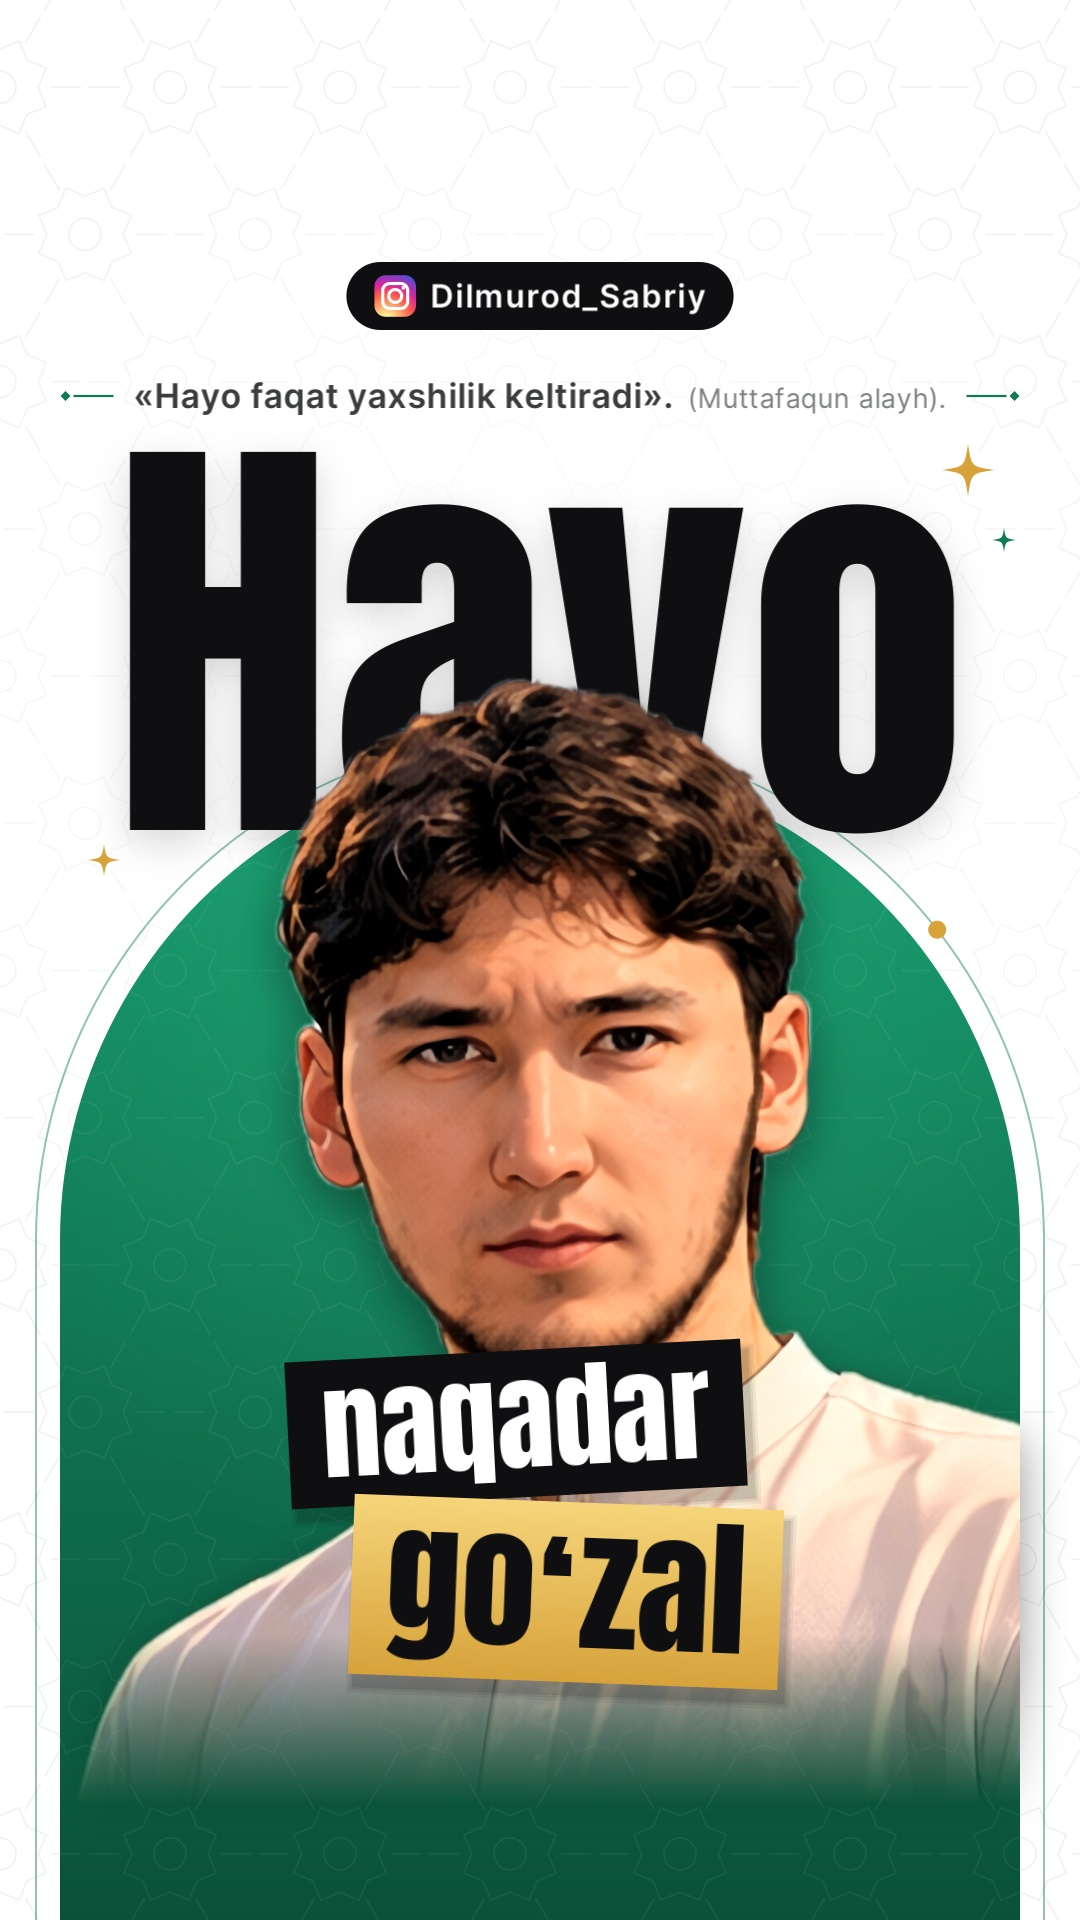
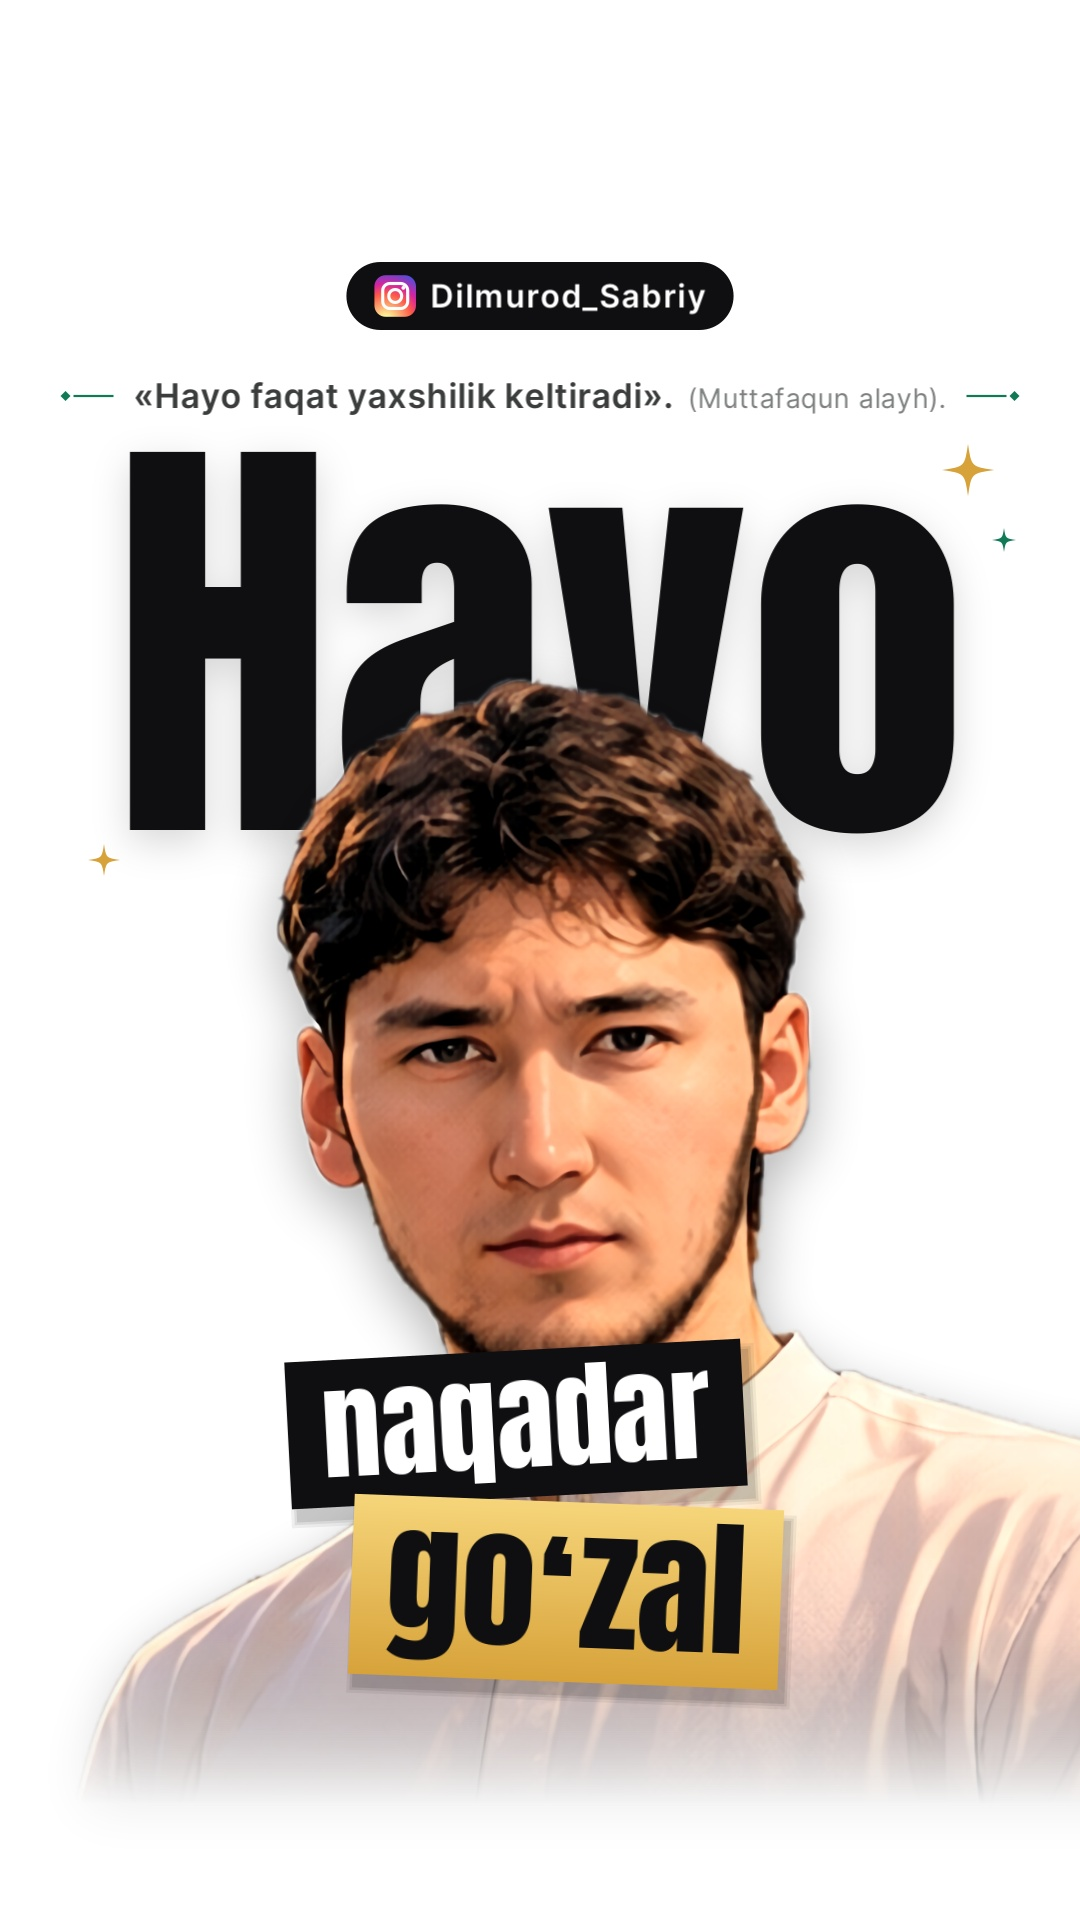
Cover: fon faqat sof oq (ravoq va naqsh olib tashlandi)
Claude-Session: https://claude.ai/code/session_018LrpBgy8Hvn4QmYzaXwYNb

Changed region(s): [[0.0306, 0.4375, 1.0, 1.0], [0.7028, 0.4062, 0.7333, 0.4375]]

diff --git a/projects/hayo_cover.py b/projects/hayo_cover.py
@@ -3,8 +3,8 @@
 
     python3 projects/hayo_cover.py            # -> output/hayo_naqadar_gozal_cover.png/.jpg
 
-Uslub (zamonaviy poster): oq fon + juda nozik naqsh; zumrad ravoq-shakl (yuqorisi
-yarim doira) ichida odam kesmasi, boshi ravoqdan chiqib turadi; ulkan qora "Hayo"
+Uslub (zamonaviy poster): fon faqat sof oq (#ffffff); odam kesmasi yumshoq soya bilan
+ajralib turadi, pastga qarab oqqa singib ketadi; ulkan qora "Hayo"
 (Anton) boshi ORTIDA; tepada Instagram tugmasi va hadis kicker; pastda ikki qiya yorliq
 ("naqadar" qora, "goʻzal" oltin). Muhim qismlar markaziy 3:4 kesim (y 240..1680) ichida.
 """
@@ -122,41 +122,7 @@ def main():
     ctx = cairo.Context(surf)
     ctx.set_source_rgba(1, 1, 1, 1)
     ctx.paint()
-    # very faint geometric lattice on the white
-    lat = P.lattice_surface(color=hx("#dfe7e3"), step=170, R_=50)
-    ctx.set_source_surface(lat, -85, -60)
-    ctx.paint_with_alpha(0.55)
-    # fade the lattice out towards the centre so the type stays clean
-    g = cairo.RadialGradient(540, 760, 120, 540, 760, 760)
-    g.add_color_stop_rgba(0, 1, 1, 1, 0.92)
-    g.add_color_stop_rgba(1, 1, 1, 1, 0.0)
-    ctx.set_source(g)
-    ctx.paint()
-
-    # emerald arch ----------------------------------------------------------
-    ctx.save()
-    arch_shape(ctx)
-    ctx.clip()
-    g = cairo.LinearGradient(0, ARCH_CY - ARCH_R, 0, H)
-    g.add_color_stop_rgba(0, *EMER_1[:3], 1)
-    g.add_color_stop_rgba(1, *EMER_2[:3], 1)
-    ctx.set_source(g)
-    ctx.paint()
-    R.glow(ctx, 540, 980, 620, hx("#3fd19c"), 0.35)
-    lat2 = P.lattice_surface(color=hx("#ffffff"), step=170, R_=50)
-    ctx.set_source_surface(lat2, -85, -60)
-    ctx.paint_with_alpha(0.06)
-    ctx.restore()
-    # orbit ring + gold bead
-    arch_shape(ctx, 24)
-    ctx.set_source_rgba(*EMER[:3], 0.45)
-    ctx.set_line_width(2)
-    ctx.stroke()
-    an = math.radians(-38)
-    bx, by = 540 + (ARCH_R + 24) * math.cos(an), ARCH_CY + (ARCH_R + 24) * math.sin(an)
-    ctx.set_source_rgba(*GOLD_2[:3], 1)
-    ctx.arc(bx, by, 9, 0, 2 * math.pi)
-    ctx.fill()
+    # background: pure white only
 
     # giant "Hayo" (behind the head) ------------------------------------------
     sh = sprite("Hayo", "anton", HAYO_SIZE, BLACK, 0.0, None, 18)
@@ -172,9 +138,6 @@ def main():
 
     def draw_cut(c):
         c.save()
-        arch_shape(c)                       # body stays inside the arch,
-        c.rectangle(0, 0, W, 900)           # the head breaks out above it
-        c.clip()
         c.push_group()
         paint_pic(c, cut, S, tx, ty)
         g2 = cairo.LinearGradient(0, fade0, 0, bottom)
@@ -189,7 +152,7 @@ def main():
         c.restore()
 
     al = layer_alpha(draw_cut)
-    paint_pic(ctx, blurred_alpha_pic(al, 22, 0.42), 1.0, 0, 18)
+    paint_pic(ctx, blurred_alpha_pic(al, 26, 0.30), 1.0, 0, 20)
     draw_cut(ctx)
 
     # top: Instagram pill + hadith kicker ----------------------------------
